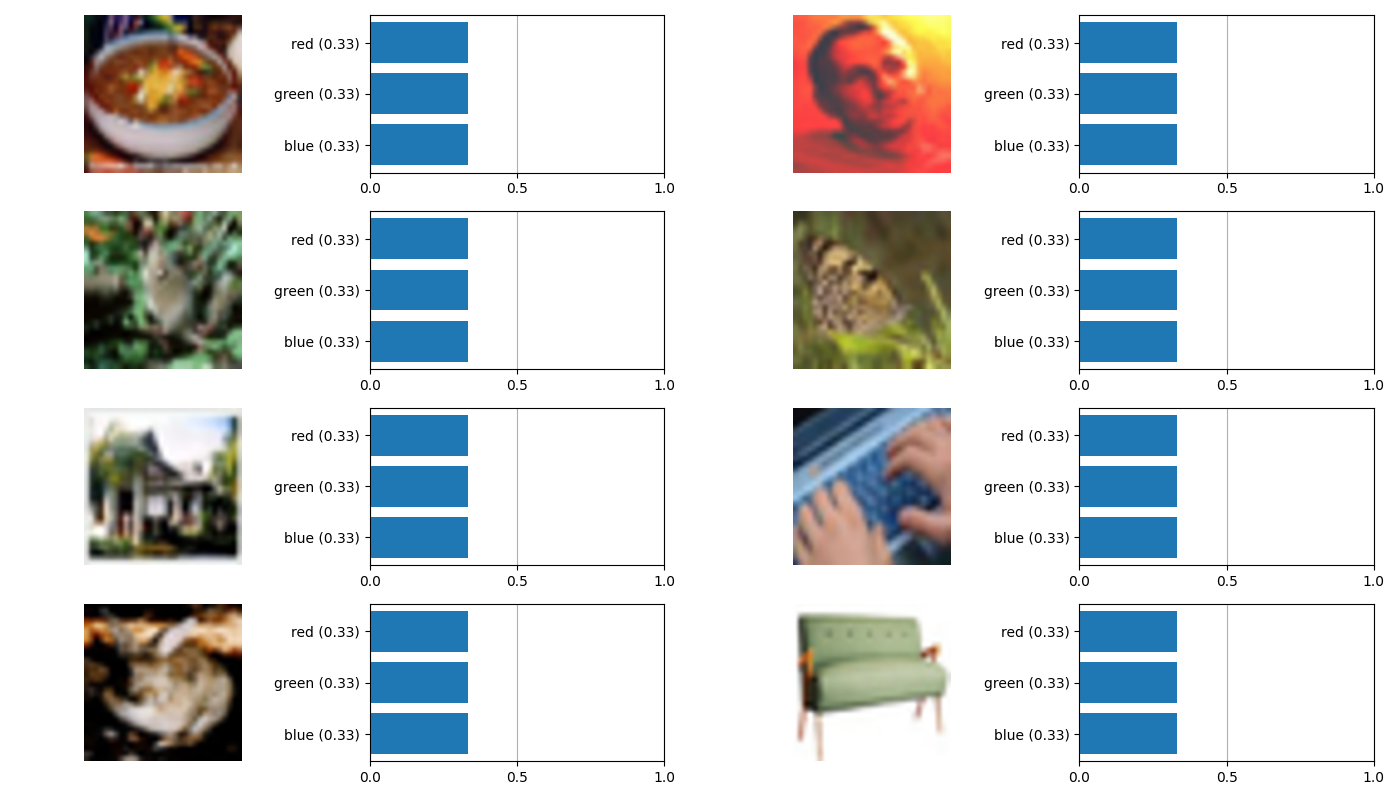
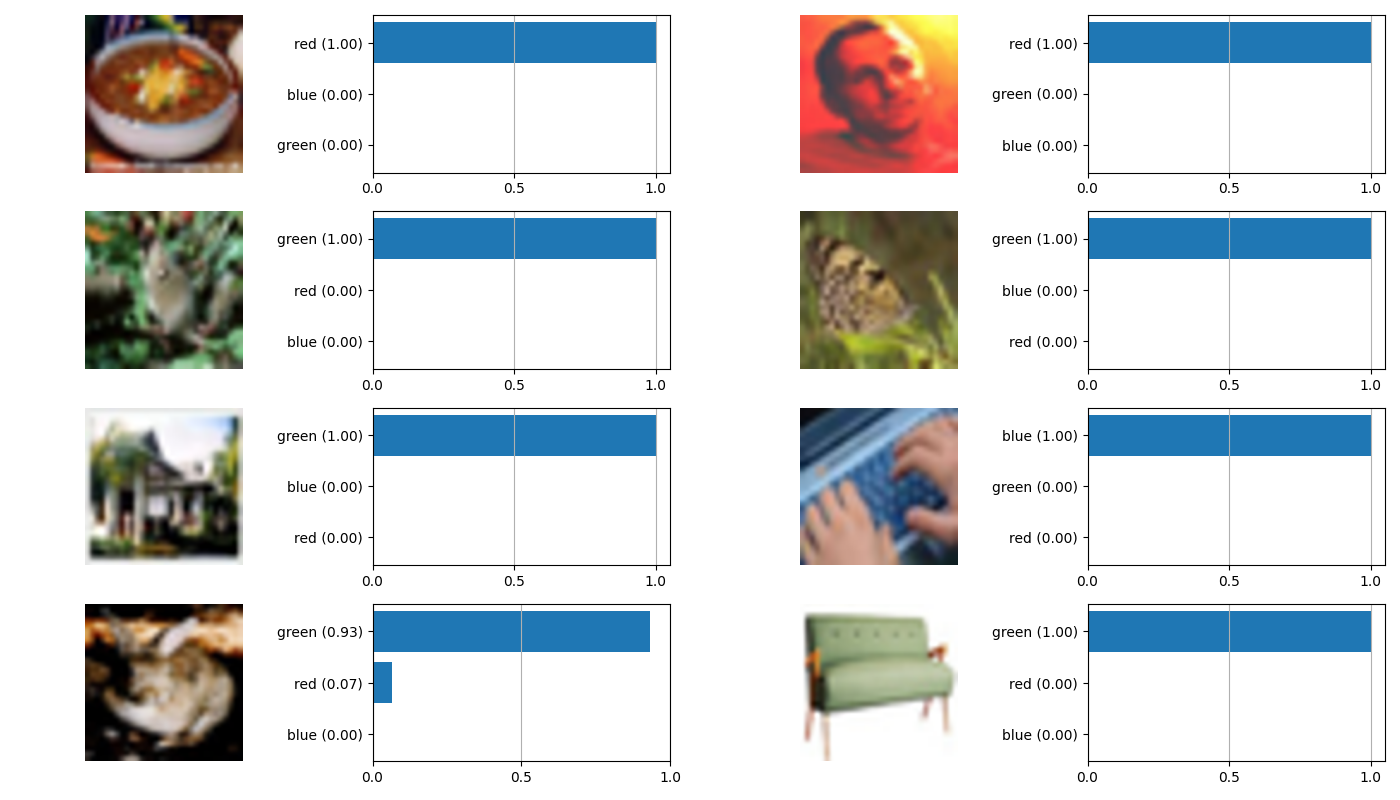
add clipzs.py and images

diff --git a/assignment2/part2/clipzs.py b/assignment2/part2/clipzs.py
@@ -28,7 +28,7 @@ from torchvision.datasets import CIFAR10, CIFAR100
 from torch.utils.data import DataLoader
 from tqdm import tqdm
 import torch.nn as nn
-from utils import AverageMeter, set_seed
+from utils import AverageMeter, set_seed, accuracy
 
 
 DATASET = {"cifar10": CIFAR10, "cifar100": CIFAR100}
@@ -224,9 +224,8 @@ class ZeroshotCLIP(nn.Module):
         with torch.no_grad():
             image_features = self.clip_model.encode_image(image)
             image_features = image_features / image_features.norm(dim=-1, keepdim=True)
-            logit = self.logit_scale * image_features @ self.text_features.T
-            print(logit.shape)
-        return logit
+            logits = self.logit_scale * (image_features @ self.text_features.T)
+        return logits
 
         #######################
         # END OF YOUR CODE    #
@@ -393,12 +392,11 @@ def main():
         images = images.to(device)
         labels = labels.to(device)
         logits = clipzs.model_inference(images)
-        _, preds = logits.max(dim=1)
+        preds = logits.argmax(dim=-1)
         accuracy = (preds == labels).float().mean()
         top1.update(accuracy, images.size(0))
 
-    #######################
-    # raise NotImplementedError("Implement the inference loop")
+
 
     #######################
     # END OF YOUR CODE    #
